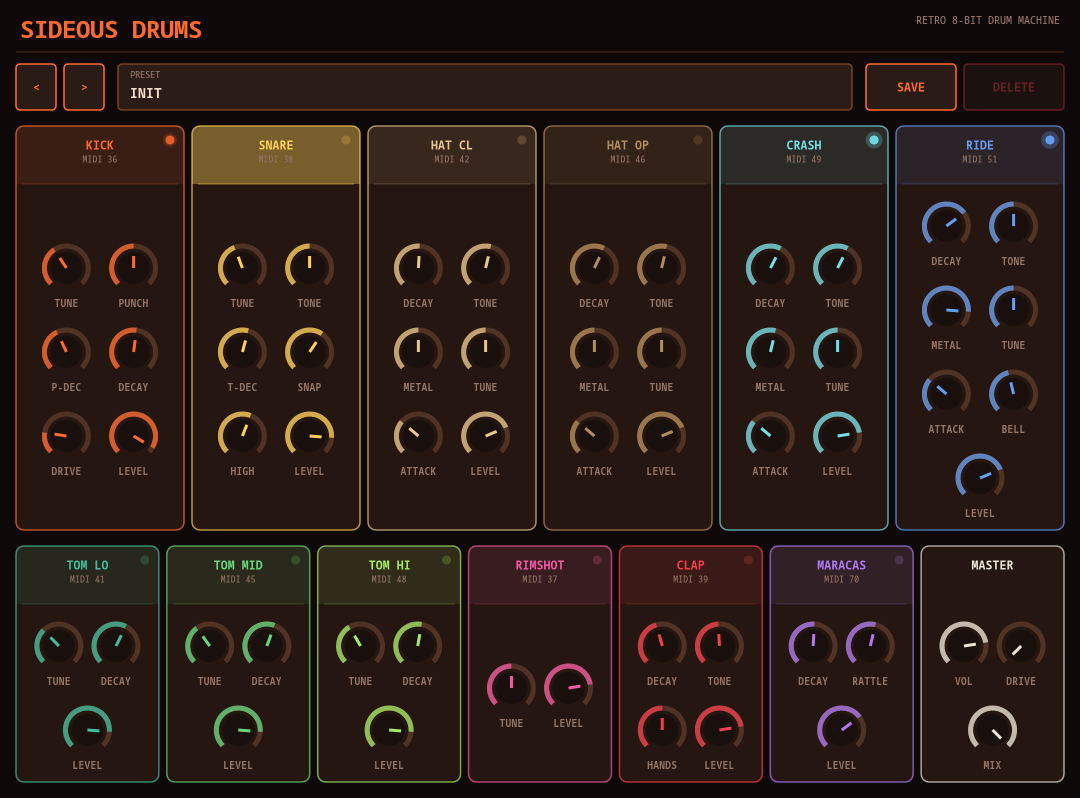
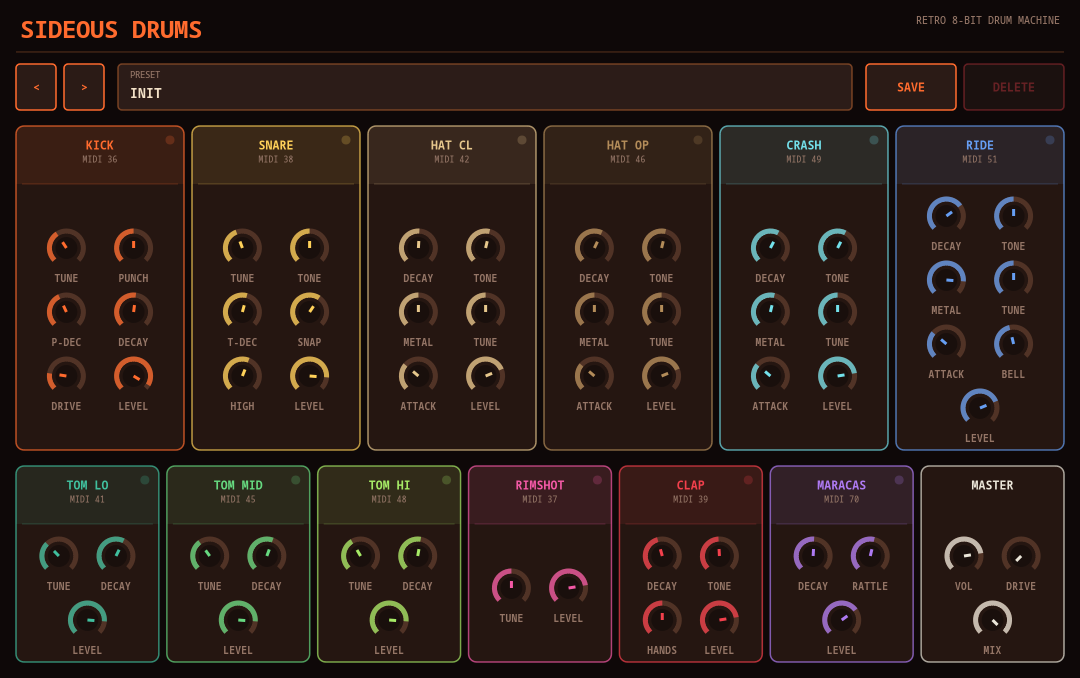
Compact UI and fix preset save bug
- Shrunk knob radius (22->17px) and row spacing (84->64px) to reduce the
  window height (1080x798 -> 1080x678) without changing the panel grid.
- Fixed a preset-save bug: clicking SAVE cleared the in-progress rename
  before presetSave() could read it, so the typed name was silently
  discarded in favor of the previous preset's name.

diff --git a/plugins/common/SideousDrumsUI.cpp b/plugins/common/SideousDrumsUI.cpp
@@ -148,14 +148,18 @@ protected:
             const int presetBtn = hitTestPresetButton(mx, my);
             if (presetBtn >= 0)
             {
-                fEditingName = false; // a button click always cancels any in-progress rename
+                // SAVE must see fEditingName/fEditBuffer as-is - it commits the
+                // in-progress rename itself (and clears fEditingName when done).
+                // Clearing it here first, like the other buttons do to cancel a
+                // pending rename, made SAVE silently discard the typed name and
+                // fall back to whatever fCurrentName already was.
                 switch (presetBtn)
                 {
-                case 0: presetStep(-1); break;
-                case 1: presetStep(1);  break;
+                case 0: fEditingName = false; presetStep(-1); break;
+                case 1: fEditingName = false; presetStep(1);  break;
                 case 2: presetSave();   break;
-                case 3: presetDelete(); break;
-                default: break;
+                case 3: fEditingName = false; presetDelete(); break;
+                default: fEditingName = false; break;
                 }
                 repaint();
                 return true;

diff --git a/plugins/common/ui/UIPainter.hpp b/plugins/common/ui/UIPainter.hpp
@@ -124,8 +124,8 @@ inline void addColumnKnobs(std::vector<Knob>& knobs, const PanelBox& p, Color ac
 {
     const size_t n = items.size();
     const size_t rows = (n + 1) / 2;
-    const float radius = 22.0f;
-    const float rowPitch = 84.0f;
+    const float radius = 17.0f;
+    const float rowPitch = 64.0f;
     const float contentTop = p.y + kPanelHeaderH;
     const float contentBottom = p.y + p.h - 10.0f;
     const float blockH = (float)rows * rowPitch;
@@ -268,7 +268,7 @@ inline Layout buildLayout(float width, float height)
     }
 
     const float row1Y = presetBarY + presetBarH + rowGap;
-    const float row1H = 404.0f; // fits 4 knob-rows (Ride's 7 knobs, the tallest column)
+    const float row1H = 324.0f; // fits 4 knob-rows (Ride's 7 knobs, the tallest column)
     const float row2Y = row1Y + row1H + rowGap;
     const float row2H = height - row2Y - margin;
 

diff --git a/plugins/SideousDrumsMulti/DistrhoPluginInfo.h b/plugins/SideousDrumsMulti/DistrhoPluginInfo.h
@@ -25,7 +25,7 @@
 
 #define DISTRHO_UI_USE_CAIRO             1
 #define DISTRHO_UI_DEFAULT_WIDTH         1080
-#define DISTRHO_UI_DEFAULT_HEIGHT        798
+#define DISTRHO_UI_DEFAULT_HEIGHT        678
 // same UI as the stereo build (ui/UIPainter.hpp doesn't care about output
 // routing) - must match the height ui/UIPainter.hpp's buildLayout() actually
 // lays out to (verified via the offline PNG renderer) - keep in sync by hand.

diff --git a/plugins/SideousDrums/DistrhoPluginInfo.h b/plugins/SideousDrums/DistrhoPluginInfo.h
@@ -21,7 +21,7 @@
 
 #define DISTRHO_UI_USE_CAIRO             1
 #define DISTRHO_UI_DEFAULT_WIDTH         1080
-#define DISTRHO_UI_DEFAULT_HEIGHT        798
+#define DISTRHO_UI_DEFAULT_HEIGHT        678
 // must match the height ui/UIPainter.hpp's buildLayout() actually lays out to
 // (verified via the offline PNG renderer) - keep these two in sync by hand.
 
